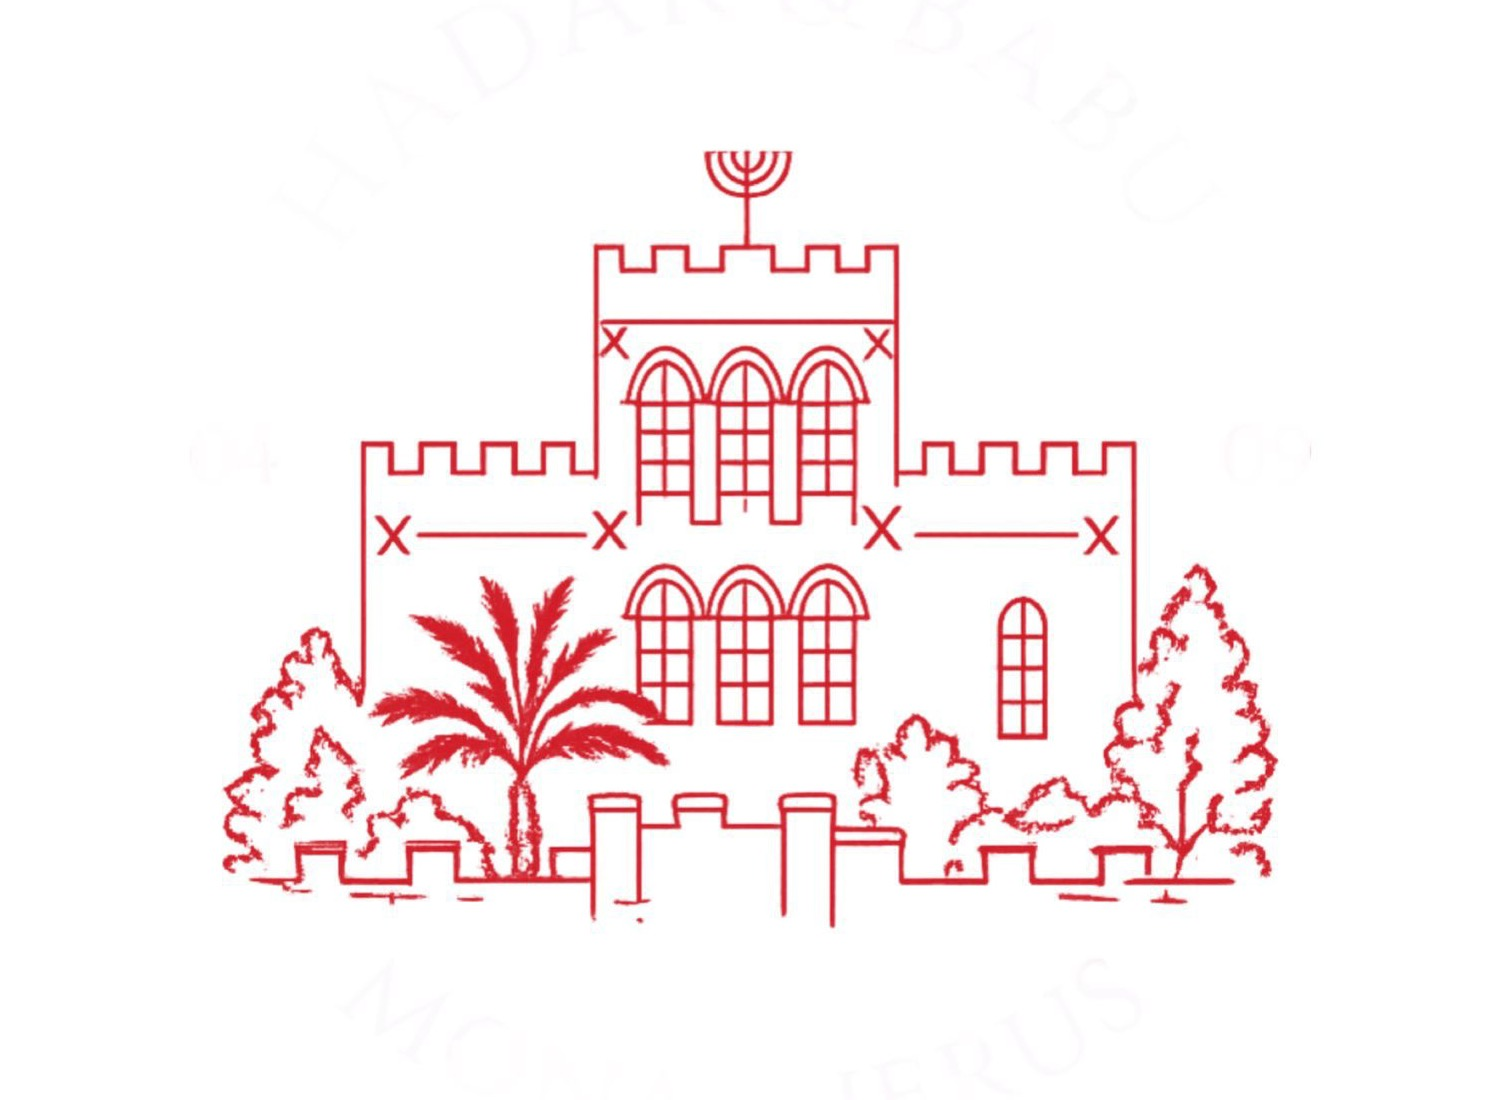
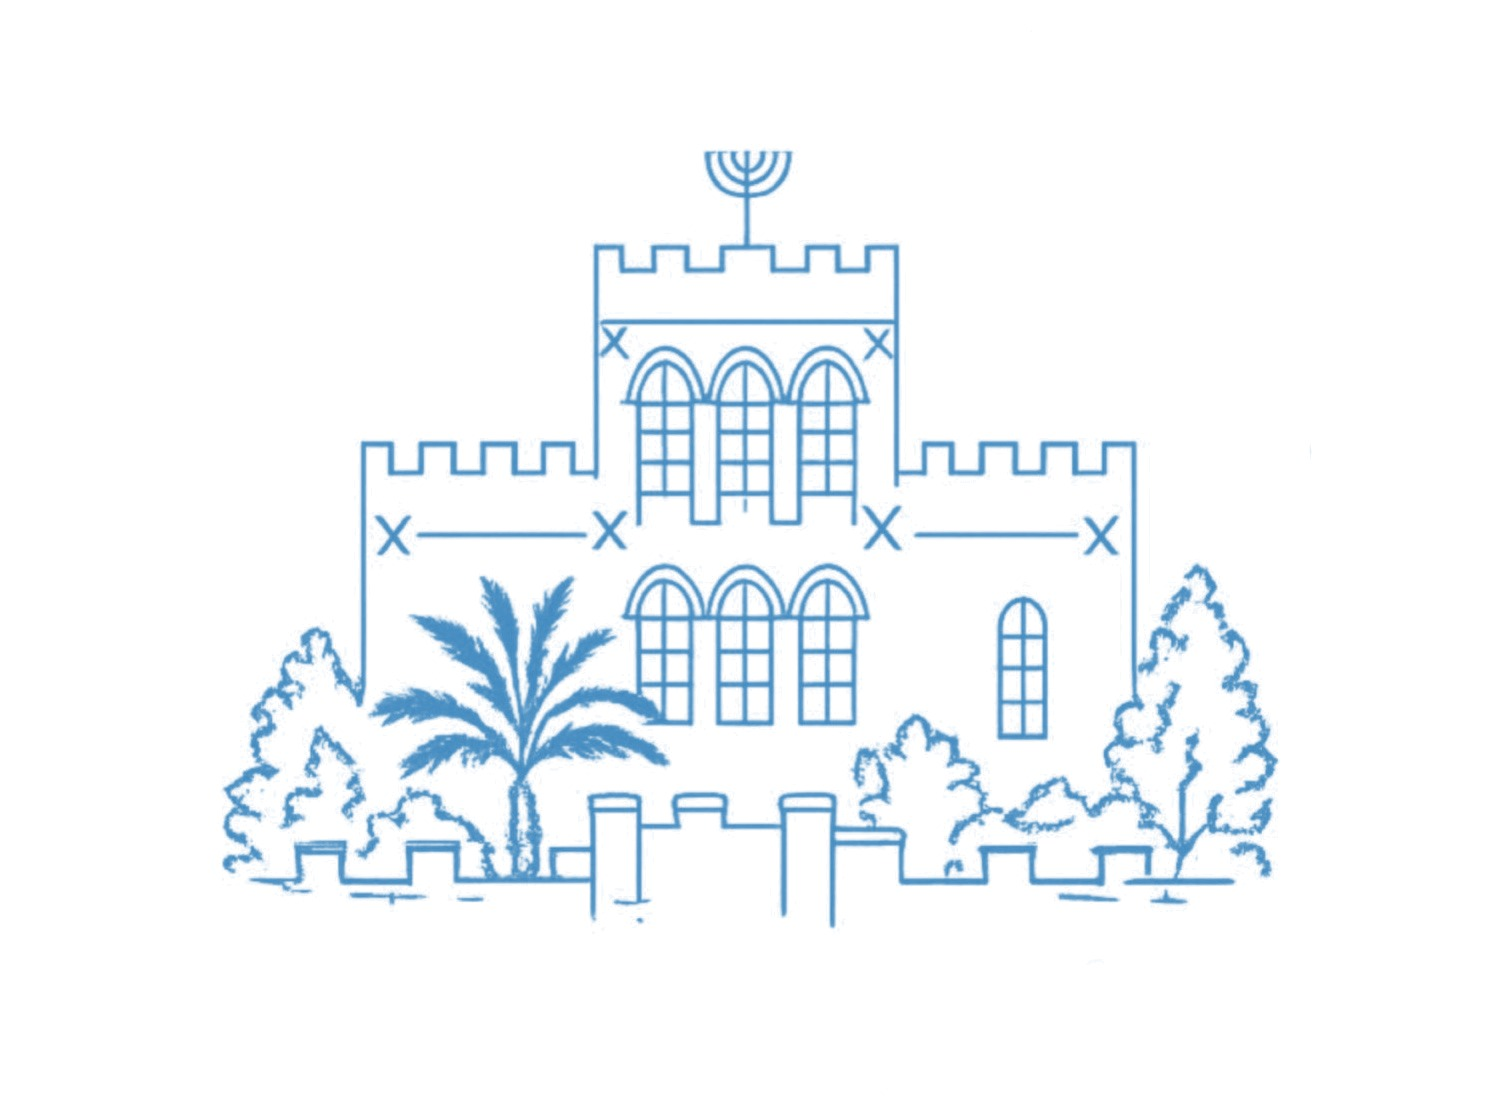
Recolor venue illustration to blue (#307FBA); shorten location to just מונא

Changed region(s): [[0.1533, 0.1236, 0.8587, 0.8345]]

diff --git a/index.html b/index.html
@@ -446,7 +446,7 @@
 
     <div class="event-info">
       <div class="event-date">4.9.2026</div>
-      <div class="event-location">מונא · ירושלים</div>
+      <div class="event-location">מונא</div>
       <div class="event-address">שמואל הנגיד 12, ירושלים</div>
     </div>
 
